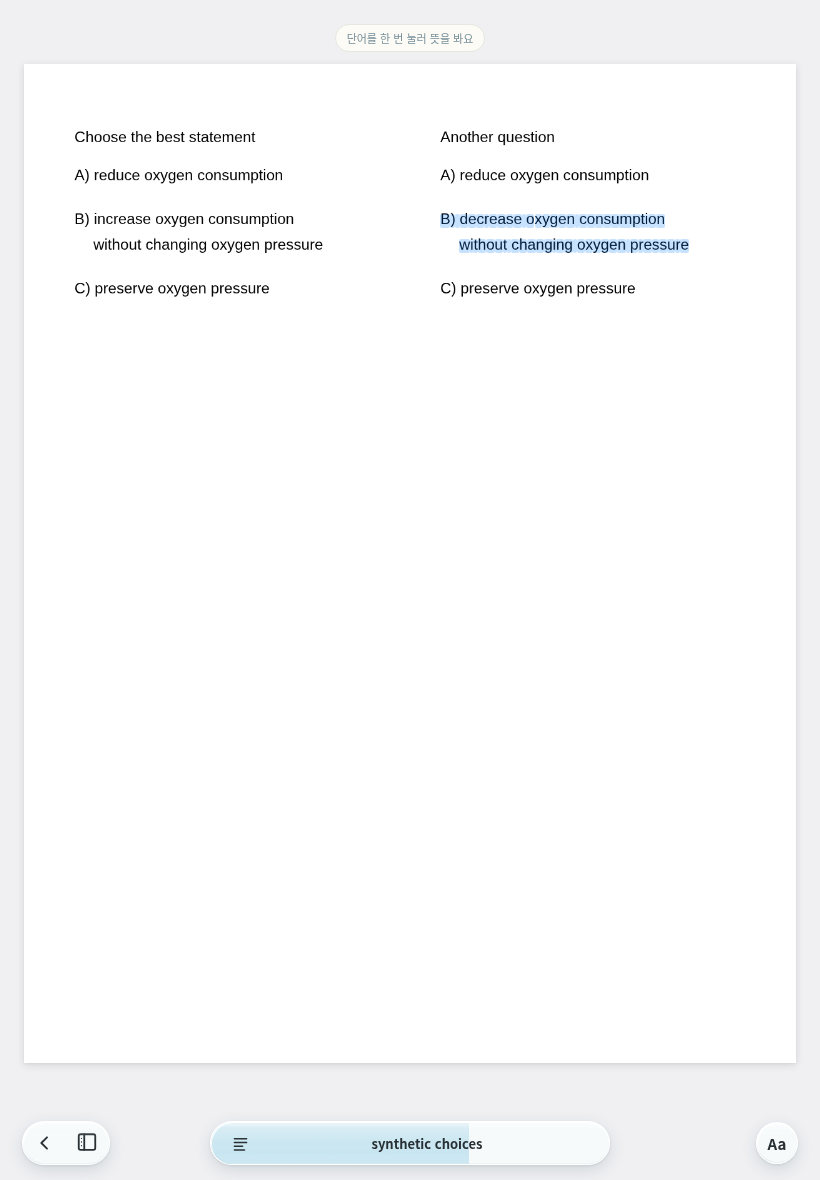
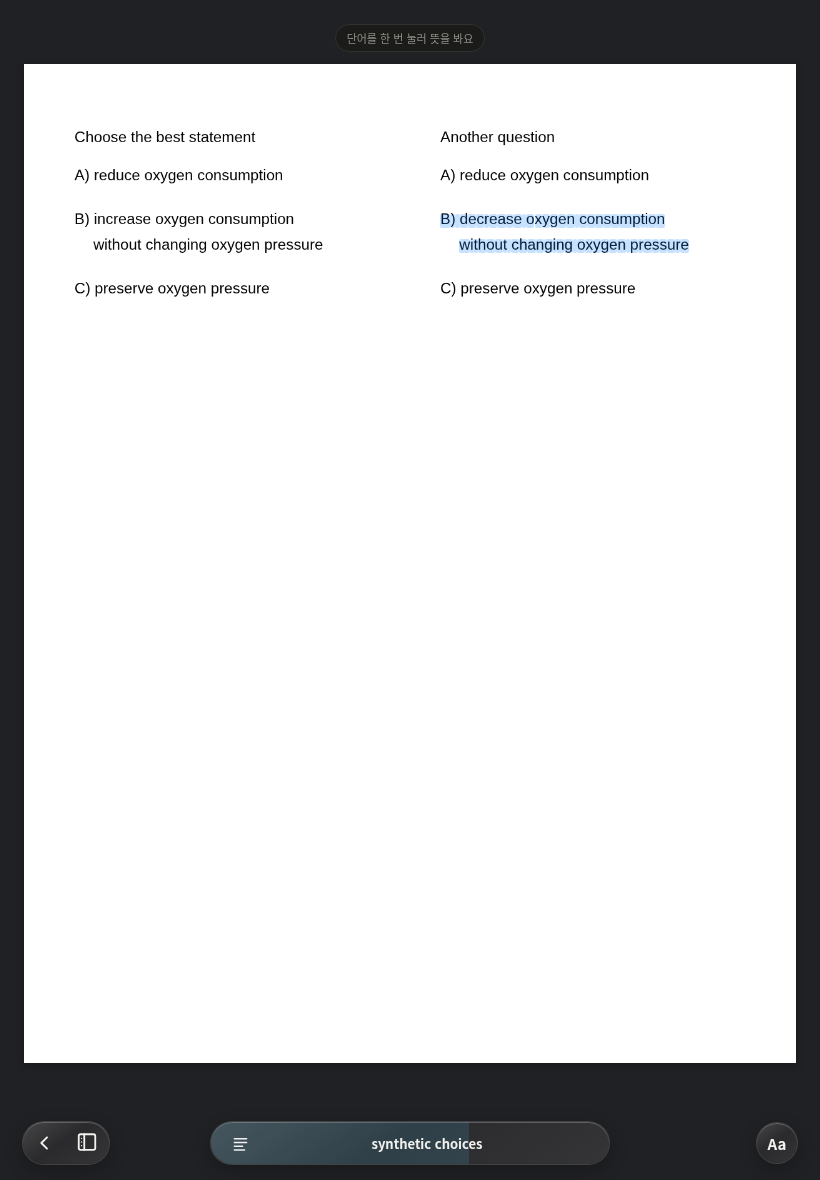
Exercise actual Breeze dark theme in original adapter probes

Changed region(s): [[0.0, 0.0, 1.0, 1.0]]

diff --git a/experiments/meaning-unit/ORIGINAL_INTEGRATION.md b/experiments/meaning-unit/ORIGINAL_INTEGRATION.md
@@ -25,6 +25,8 @@ This experiment connects to the actual Breeze PDF ORIGINAL-mode path in a headle
 
[1 lines of base64/hex data omitted]
 
+Artifact review of the green `42a6b639` experiment job exposed a theme setup defect: the connected harness used an unsupported data attribute, so its nominal dark cases repeated light styling. That run proves 128 geometry/source probes and four rejections, not ORIGINAL dark-theme coverage. The harness now toggles and asserts actual `html.dark`/`body.dark` classes. Corrected theme coverage requires new exact-head CI and screenshot review.
+
 ## Deliberate limits and failures
 
 This is a narrow structural recognizer, not a general exam parser. Same-line options, separated grammar subcolumns, multiple question groups in one column, missing/noncontiguous markers, unclear gutters, missing/nonmonotonic cells, loose continuations and rotated PDF glyph axes are rejected as `unsupported_grouping:<reason>`. Rotating the viewport is tested and supported; rotating the PDF text itself is not. Circled-marker and ligature mapping is currently unit evidence, not actual rendered font coverage. Supported fixtures use horizontal Helvetica operators and conventional wrapped indentation.
